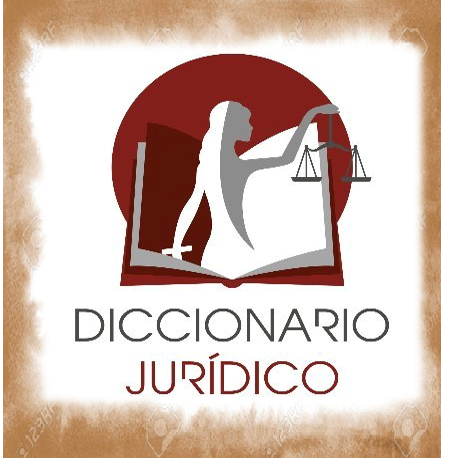
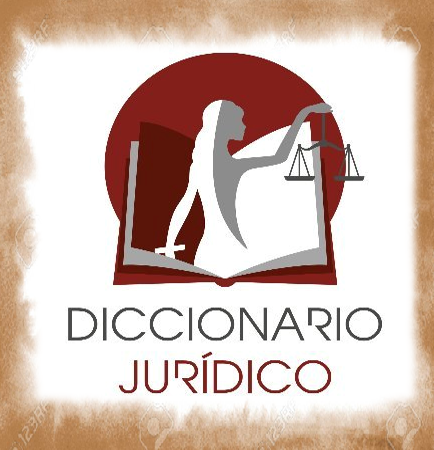
cambios diseño de la pagina web

diff --git a/DerechoInf-20200509T040306Z-001/DerechoInf/docs/4.0/examples/principal/Diccionario.html b/DerechoInf-20200509T040306Z-001/DerechoInf/docs/4.0/examples/principal/Diccionario.html
@@ -23,7 +23,7 @@
 	<link href="imagenes/fondo.jpg.css" rel="stylesheet" type="text/css">
 </head>
 
-<body bgcolor="#F8FFFD" background="imagenes/fondo.jpg">
+<body bgcolor="#F8FFFD">
 	<nav class="navbar navbar-expand-md navbar-dark fixed-top bg-dark">
       <a class="navbar-brand" href="#">Derecho</a>
       <button class="navbar-toggler" type="button" data-toggle="collapse" data-target="#navbarsExampleDefault" aria-controls="navbarsExampleDefault" aria-expanded="false" aria-label="Toggle navigation">
@@ -35,65 +35,63 @@
       </div></nav>
 		
     <figure>
-<table width="100%" border="0">
+<table width="118%" height="37" border="0">
       <tbody>
         <tr>
-          <td>&nbsp;</td>
+          <td height="33"><img src="imagenes/fondo-marrón-liso-de-la-piedra-arenisca-131669684.jpg" width="1529" height="35" alt=""/></td>
         </tr>
       </tbody>
     </table>
-    <table width="100%" height="314" border="0" align="left">
-      <tbody>
-        <tr>
-          <td width="35%" height="310"><img src="imagenes/Captura.PNG" width="374" height="289" alt=""/></td>
-          <td width="65%"><img src="imagenes/1.PNG" width="970" height="338" alt=""/></td>
-        </tr>
-      </tbody>
+<table width="121%" height="286" border="0">
+  <tbody>
+    <tr>
+      <td width="19%" height="282"><img src="imagenes/Captura.PNG" width="360" height="280" alt=""/></td>
+      <td width="81%"><img src="imagenes/1.PNG" width="1118" height="270" alt=""/></td>
+    </tr>
+  </tbody>
 </table>
+<table width="88%" height="421" border="0">
+  <tbody>
+    <tr>
+      <td width="35%"><strong><em><u><img src="imagenes/maso.jpg" width="574" height="538" alt=""/></u></em></strong></td>
+      <td width="65%"><table width="89%" height="498" border="2" align="center">
+        <tbody>
+          <tr>
+            <td>              <ul>
+                <blockquote>
+                  <h2><strong><em><u>Diccionario Jurídico</u></em></strong></h2>
+                </blockquote>
+              </ul>
+              <p><em>Un <strong>diccionario de derecho es un diccionario diseñado y compilado para proporcionar información sobre los términos utilizados en el campo del derecho.</strong></em></p>
+              <p><strong align="justify"><em>Esta sección puede resultar útil no solo a los operadores jurídicos sino especialmente al ciudadano de a pie. Entre los colectivos que pueden beneficiarse con nuestro Diccionario Jurídico se encuentran: abogados, jueces y magistrados, fiscales, notarios, registradores, procuradores de los tribunales, profesores universitarios, investigadores jurídicos, policías, militares, periodistas, traductores jurídicos y estudiantes.</em></strong></p>
+              <p><strong align="justify"><em>Esta sección puede ayudar a comprender mejor el Derecho al ciudadano de a pie, consumidores y usuarios, empresarios y emprendedores, funcionarios públicos, trabajadores por cuenta ajena de cualquier sector, jubilados, desempleados, etc</em></strong><em>.</em></p></td>
+          </tr>
+        </tbody>
+      </table></td>
+    </tr>
+  </tbody>
+</table>
+<table width="100%" height="38" border="0">
+  <tbody>
+    <tr>
+      <td><img src="imagenes/fondo-marrón-liso-de-la-piedra-arenisca-131669684.jpg" width="1463" height="32" alt=""/></td>
+    </tr>
+  </tbody>
+</table>
+<p>&nbsp;</p>
+<blockquote>
+  <blockquote>
     <blockquote>
       <blockquote>
         <blockquote>
-          <blockquote>
-            <blockquote>
-              <blockquote>
-                <blockquote>
-                  <blockquote>
-  <p>&nbsp;</p>
-  <p>&nbsp;</p>
-  <p>&nbsp;</p>
-  <p>&nbsp;</p>
-  <p>&nbsp;</p>
-  <p>&nbsp;</p>
-  <p>&nbsp;</p>
-  <p>&nbsp;</p>
-  <p>&nbsp;</p>
-                  </blockquote>
-                </blockquote>
-              </blockquote>
-              <table width="859" height="528" border="3">
-                <tbody>
-                  <tr>
-                    <td width="445" height="518"><img src="imagenes/maso.jpg" width="441" height="433" alt=""/></td>
-                    <td width="394"><blockquote>
-                      <blockquote>
-                        <h1>      <span style="font-size: 24px"><strong><em><u>Diccionario Jurídico</u></em></strong></span></h1>
-                      </blockquote>
-                    </blockquote>
-                      <p><em>Un diccionario de derecho es un diccionario diseñado y compilado para proporcionar información sobre los términos utilizados en el campo del derecho.</em></p>
-                      <p align="justify"><em>Esta sección puede resultar útil no solo a los operadores jurídicos sino especialmente al ciudadano de a pie. Entre los colectivos que pueden beneficiarse con nuestro <strong>Diccionario Jurídico</strong> se encuentran: abogados, jueces y magistrados, fiscales, notarios, registradores, procuradores de los tribunales, profesores universitarios, investigadores jurídicos, policías, militares, periodistas, traductores jurídicos y estudiantes.</em></p>
-                      <p align="justify"><em>Esta sección puede ayudar a comprender mejor el Derecho al ciudadano de a pie, consumidores y usuarios, empresarios y emprendedores, funcionarios públicos, trabajadores por cuenta ajena de cualquier sector, jubilados, desempleados, etc.</em></p>
-                    <p>&nbsp;</p></td>
-                  </tr>
-                </tbody>
-              </table>
-              <p>&nbsp;</p>
-              <p>&nbsp;</p>
-              <p>&nbsp;</p>
-              <p>&nbsp;</p>
-            </blockquote>
-          </blockquote>
+          <p>&nbsp;</p>
+          <p>&nbsp;</p>
+          <p>&nbsp;</p>
+          <p>&nbsp;</p>
         </blockquote>
       </blockquote>
-    </blockquote>
+      </blockquote>
+  </blockquote>
+</blockquote>
 </body>
 </html>
